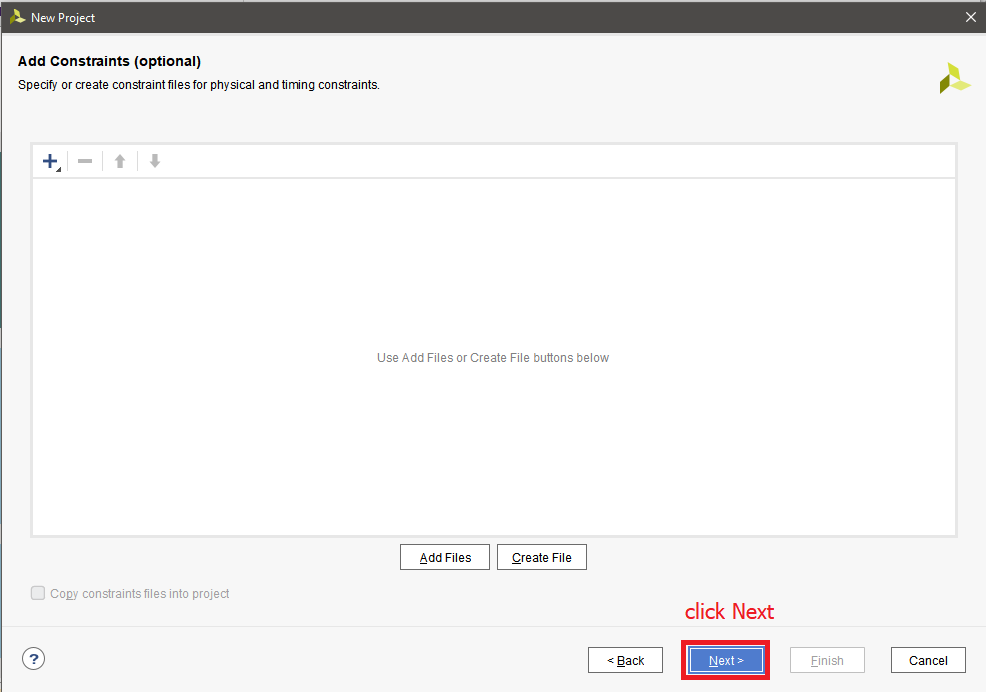
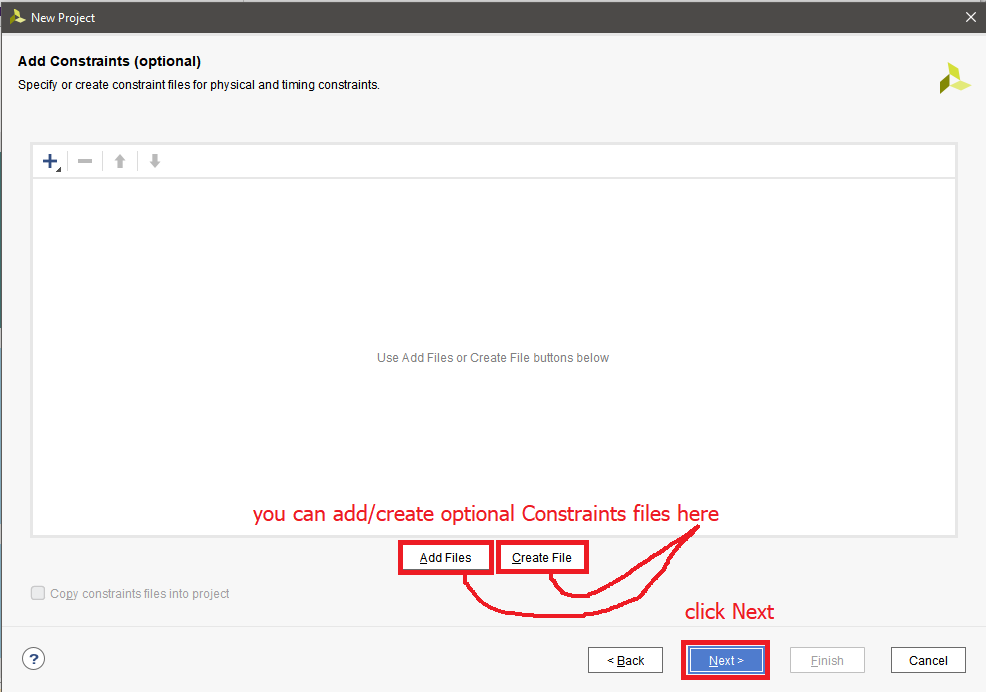
1936

Changed region(s): [[0.2434, 0.7283, 0.7302, 0.9104]]

diff --git a/Labs/03-vivado/README.md b/Labs/03-vivado/README.md
@@ -61,3 +61,22 @@ p_stimulus : process
 ```
 ### Screenshot with simulated time waveforms
 ![waveforms](https://github.com/xsobon02/Digital-electronics-1/blob/main/Labs/03-vivado/Images/waves.png)
+
+## 3. A Vivado tutorial
+### project creation (adding XDC constraints file)
+![1](https://github.com/xsobon02/Digital-electronics-1/blob/main/Labs/03-vivado/Images/1.png)
+![2](https://github.com/xsobon02/Digital-electronics-1/blob/main/Labs/03-vivado/Images/2.png)
+![3](https://github.com/xsobon02/Digital-electronics-1/blob/main/Labs/03-vivado/Images/3.png)
+![4](https://github.com/xsobon02/Digital-electronics-1/blob/main/Labs/03-vivado/Images/4.png)
+![5](https://github.com/xsobon02/Digital-electronics-1/blob/main/Labs/03-vivado/Images/5.png)
+![6](https://github.com/xsobon02/Digital-electronics-1/blob/main/Labs/03-vivado/Images/6.png)
+![7](https://github.com/xsobon02/Digital-electronics-1/blob/main/Labs/03-vivado/Images/7.png)
+![8](https://github.com/xsobon02/Digital-electronics-1/blob/main/Labs/03-vivado/Images/8.png)
+![9](https://github.com/xsobon02/Digital-electronics-1/blob/main/Labs/03-vivado/Images/9.png)
+### adding source file/testbench file
+![sim1](https://github.com/xsobon02/Digital-electronics-1/blob/main/Labs/03-vivado/Images/sim1.png)
+![sim2](https://github.com/xsobon02/Digital-electronics-1/blob/main/Labs/03-vivado/Images/sim2.png)
+![sim3](https://github.com/xsobon02/Digital-electronics-1/blob/main/Labs/03-vivado/Images/sim3.png)
+![sim4](https://github.com/xsobon02/Digital-electronics-1/blob/main/Labs/03-vivado/Images/sim4.png)
+### running simulation
+![run1](https://github.com/xsobon02/Digital-electronics-1/blob/main/Labs/03-vivado/Images/run1.png)
